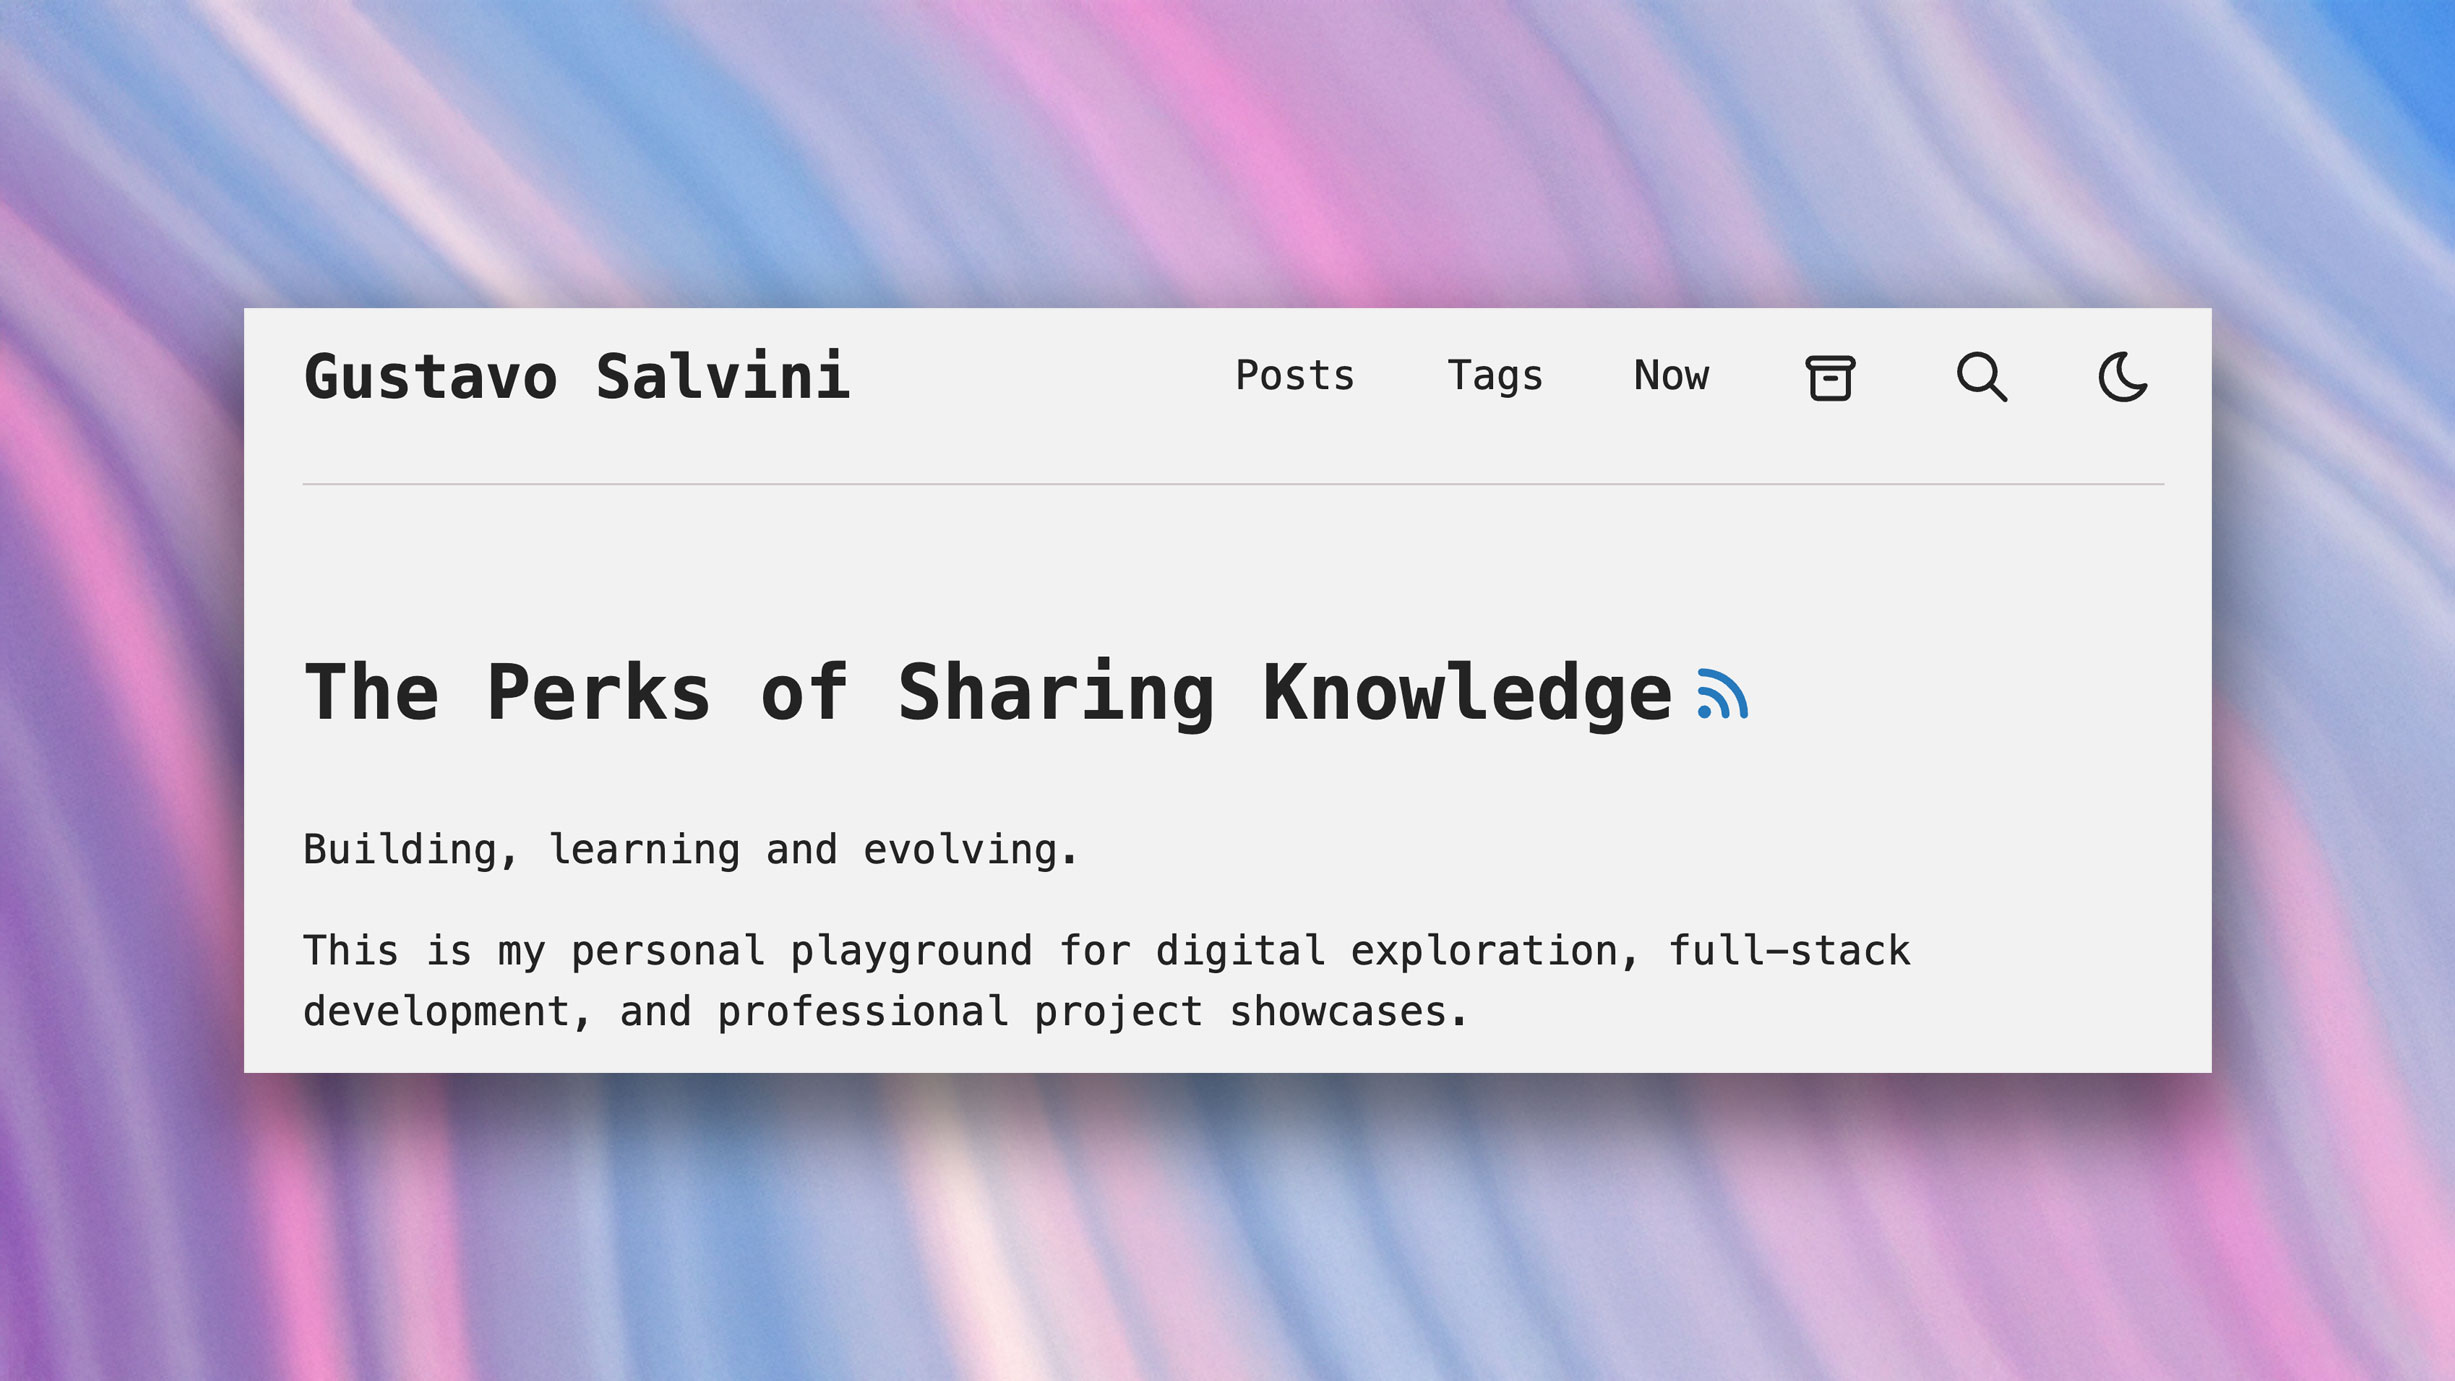
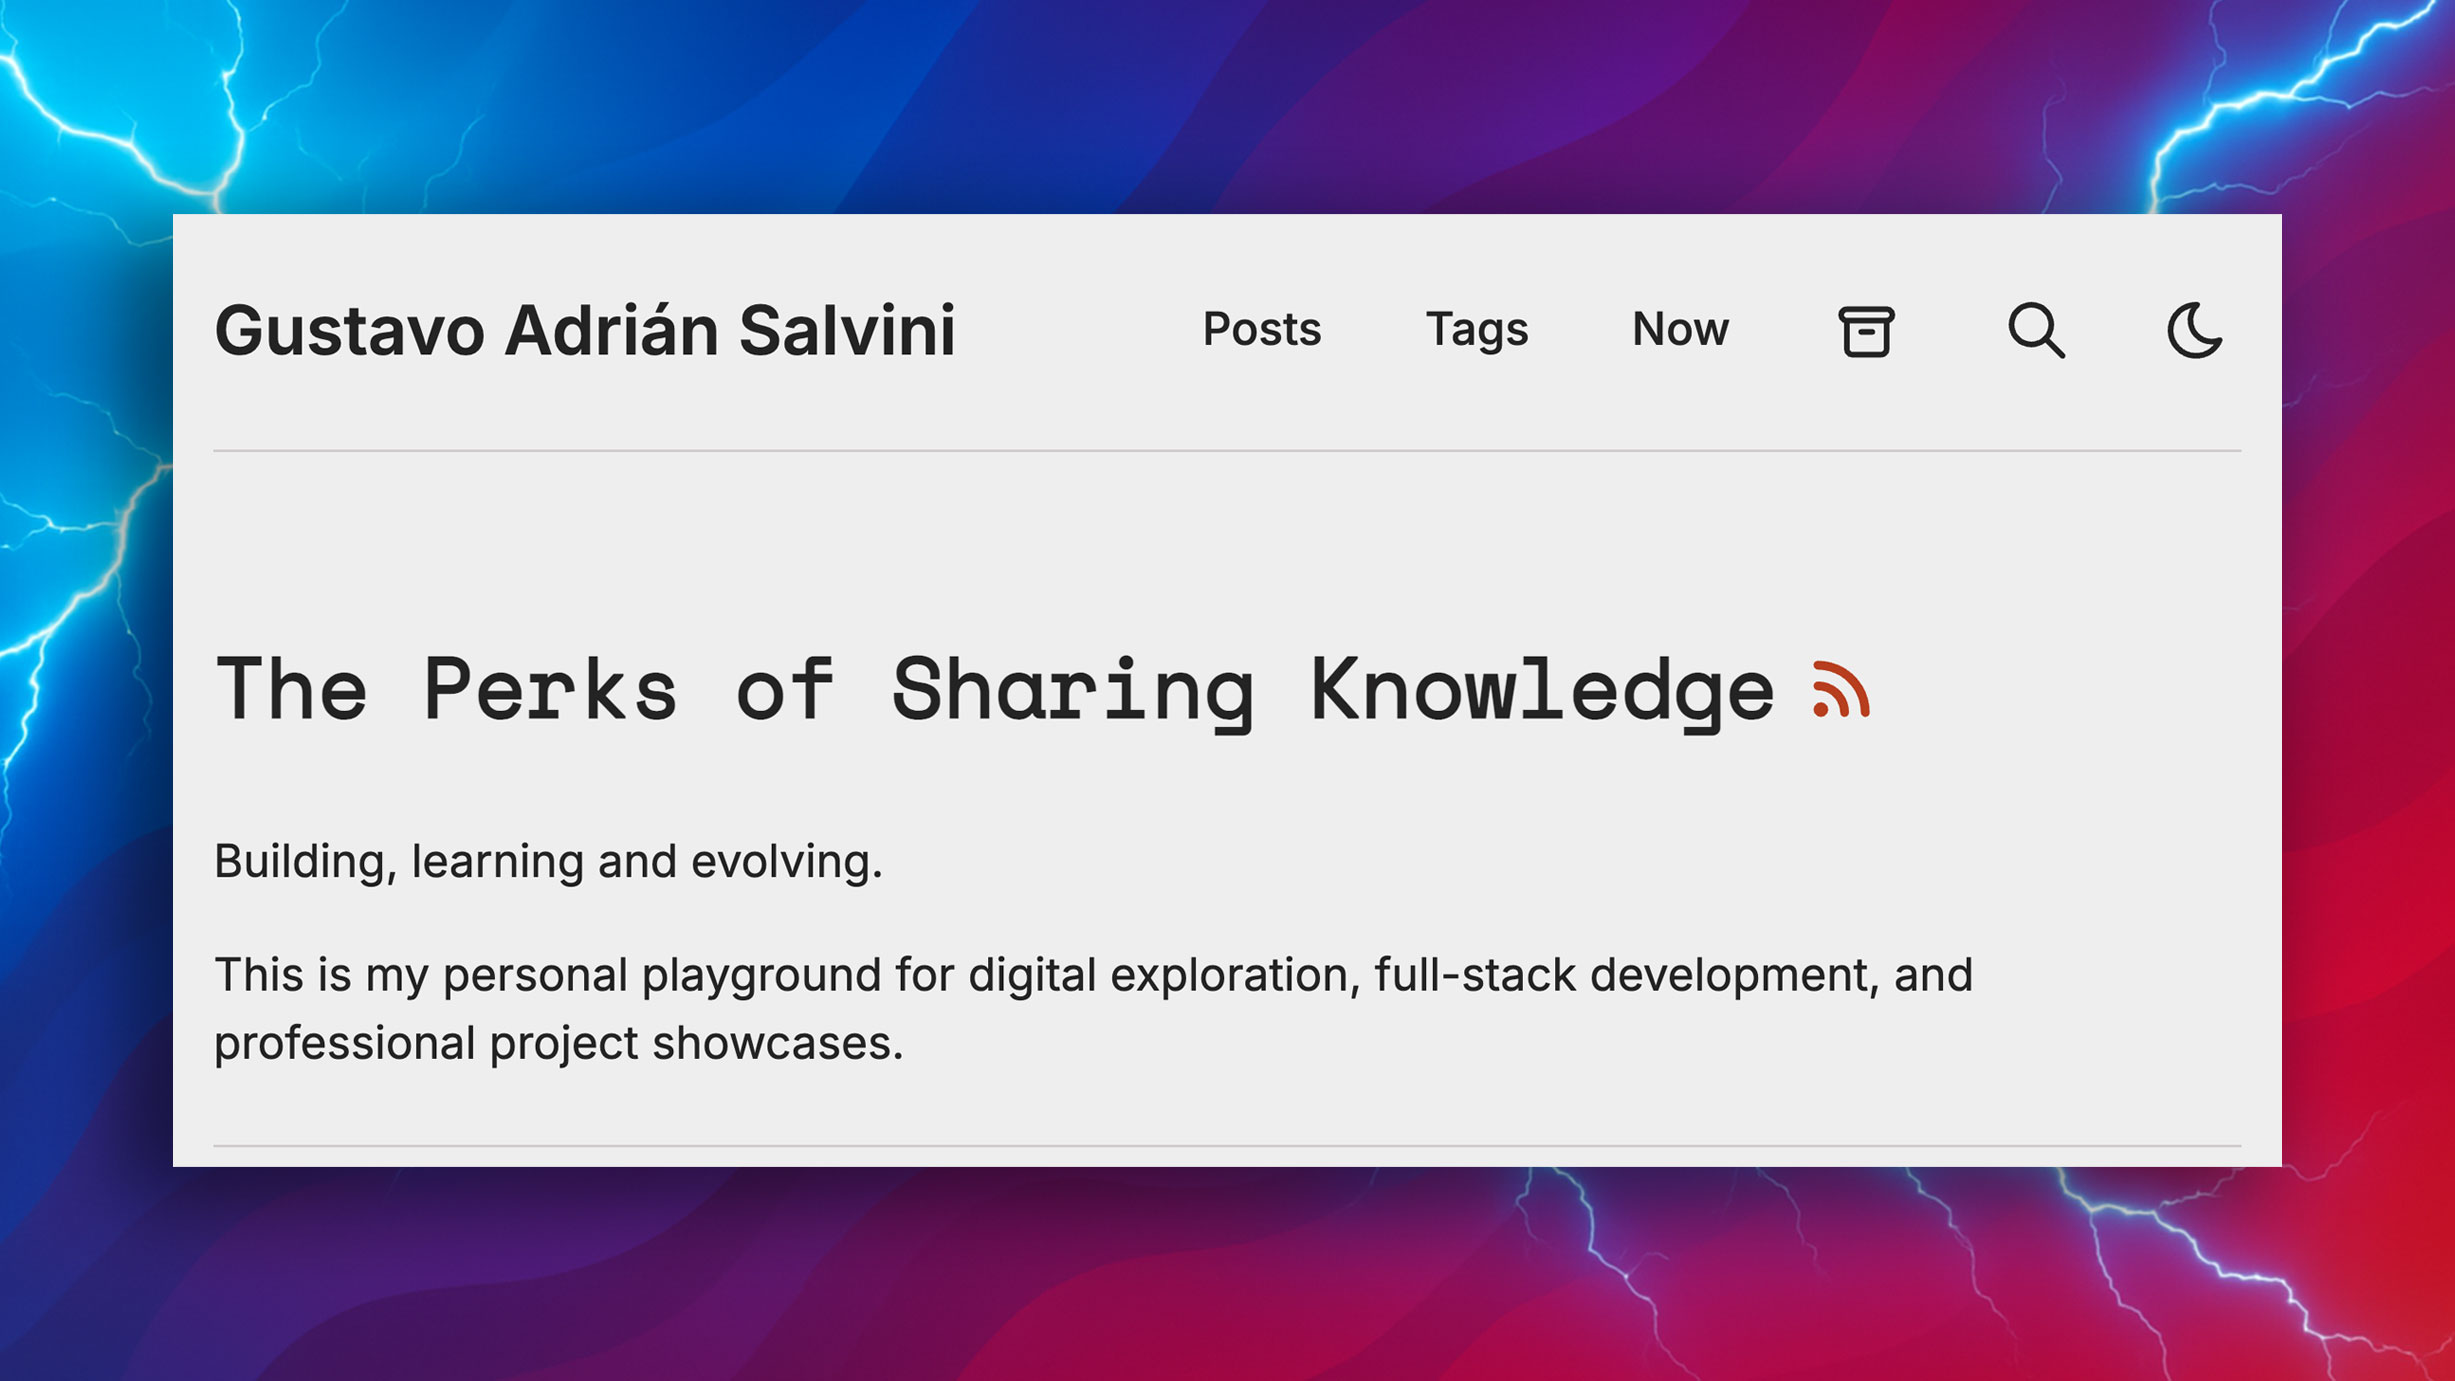
style: change layout width

diff --git a/src/config.ts b/src/config.ts
@@ -3,7 +3,7 @@ export const SITE = {
   author: "Gustavo Adrián Salvini",
   profile: "https://gustavosalvini.com.ar/",
   desc: "A personal playground for full-stack development and digital exploration by Gustavo Adrián Salvini",
-  title: "Gustavo Salvini",
+  title: "Gustavo Adrián Salvini",
   ogImage: "gustavosalvini-og.jpg",
   lightAndDarkMode: true,
   postPerIndex: 4,

diff --git a/src/styles/global.css b/src/styles/global.css
@@ -6,7 +6,7 @@
 :root,
 html[data-theme="light"] {
   /* --background: #fdfdfd; */
-  --background: #e4e2e2;
+  --background: #f0f0f0;
   --foreground: #282728;
   /* --accent: #006cac; */
   --accent: #c93b0c;
@@ -63,7 +63,7 @@ html[data-theme="dark"] {
   }
   section,
   footer {
-    @apply mx-auto max-w-3xl px-4;
+    @apply mx-auto max-w-5xl px-4;
   }
 }
 
